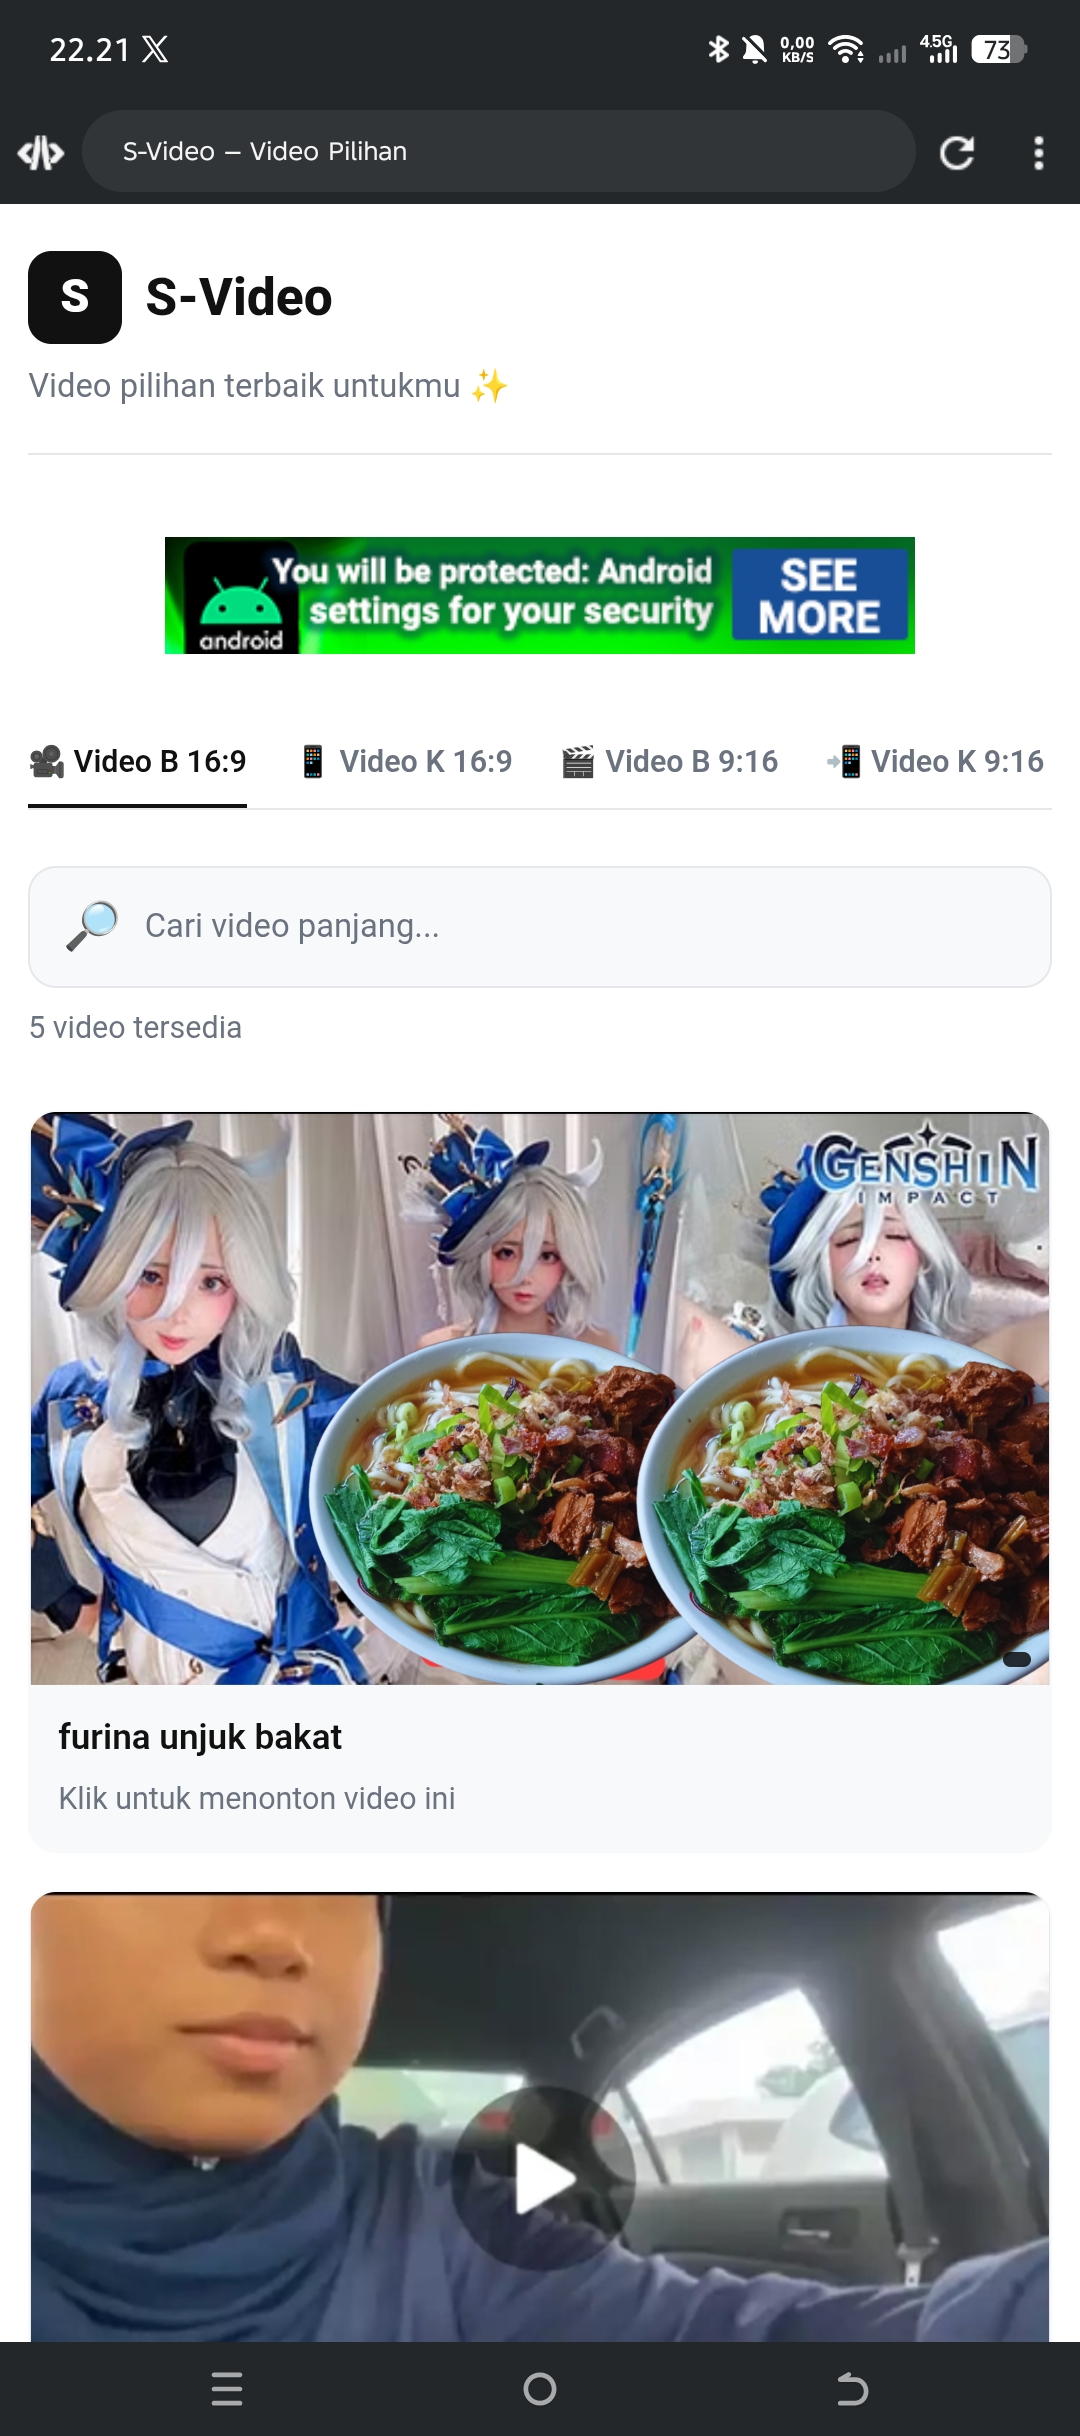
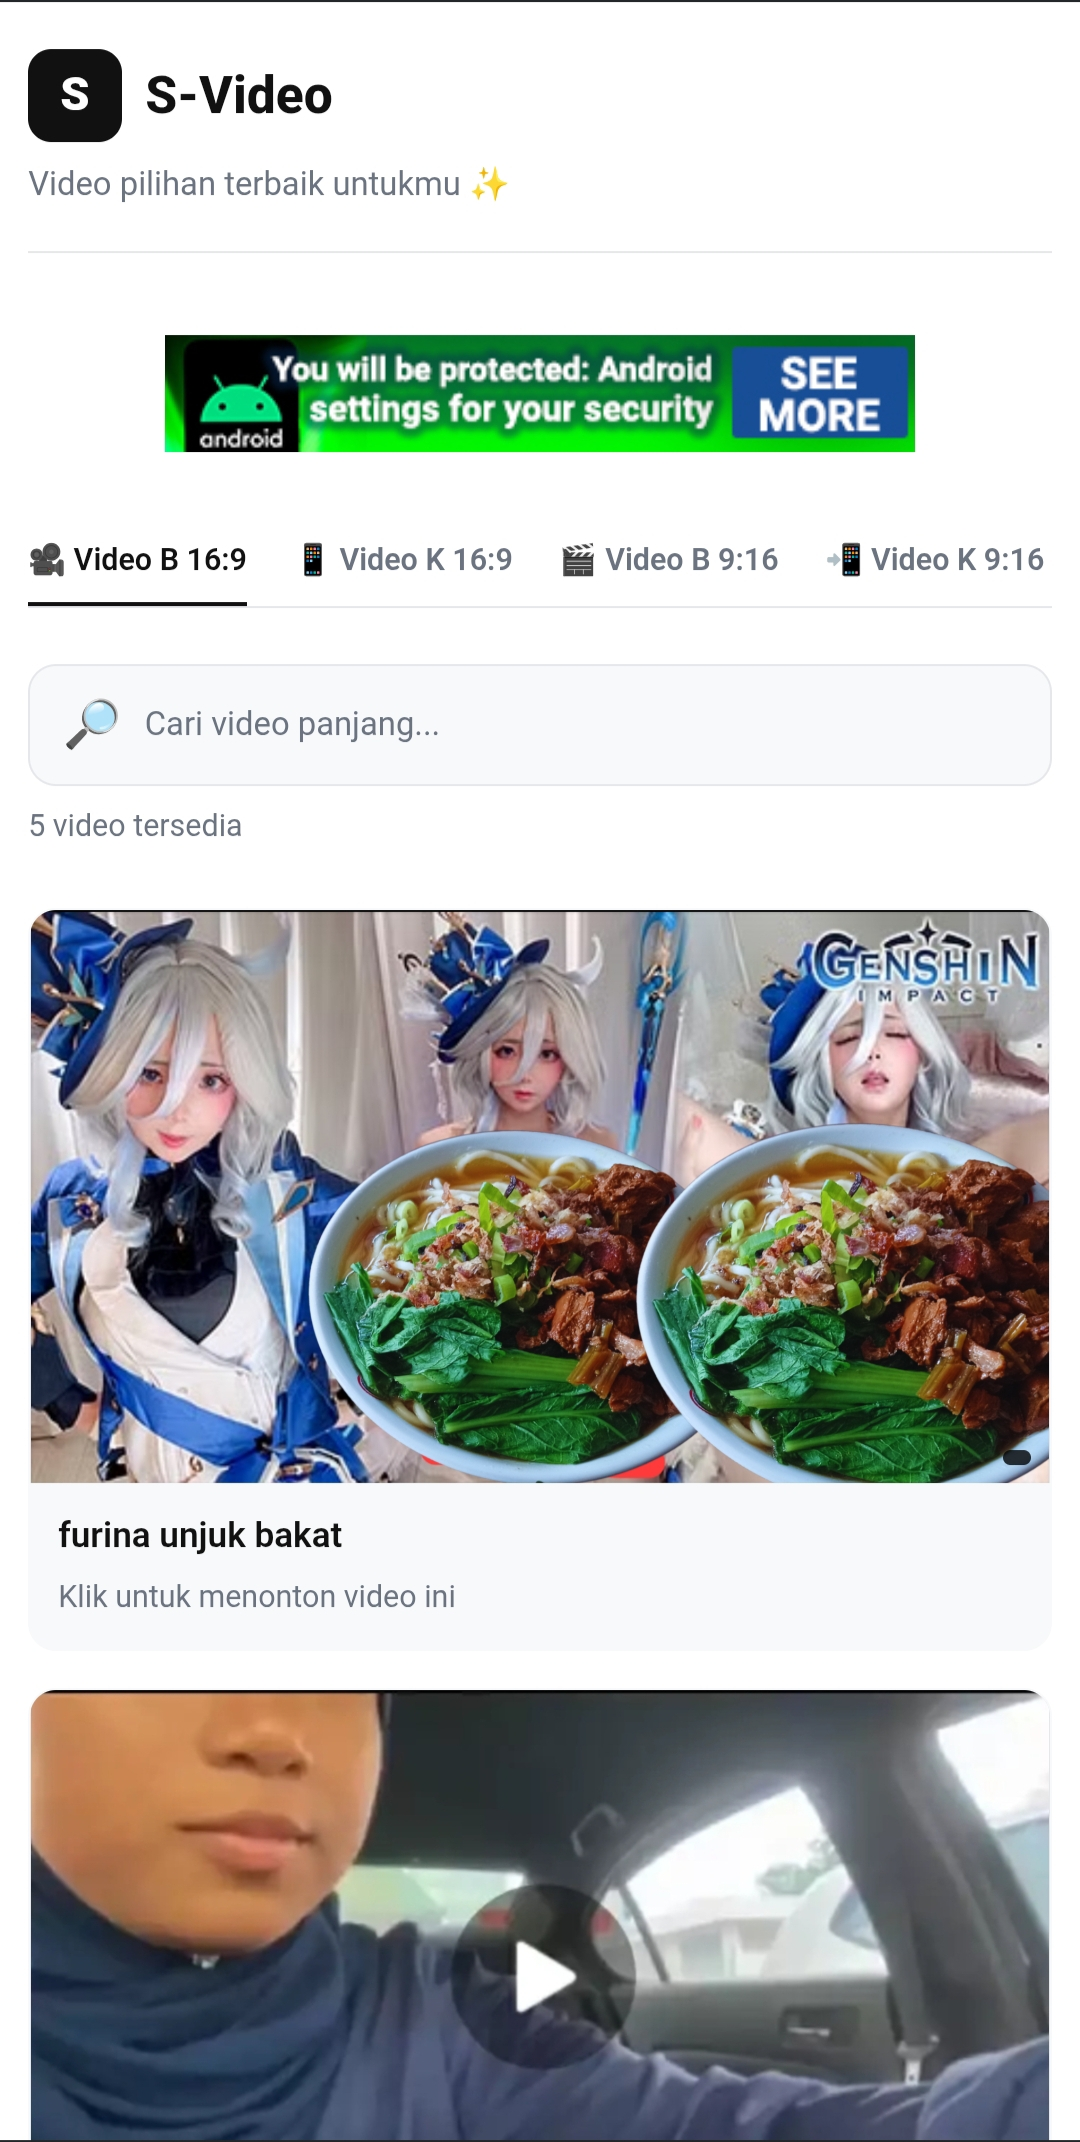
Add files via upload

diff --git a/Pilihvid.html b/Pilihvid.html
@@ -453,7 +453,8 @@ header p {
       <a href="https://anonmp4.art/v/s8mefCEn6Zi4qce" target="_blank" class="video-card">
         <div class="thumbnail">
           <img src="furinacostplay(b).jpg" alt="Thumbnail mobil">
-          <span class="duration"></span>
+          <div class="play-button">▶</div>
+          <span class="duration">04:40</span>
         </div>
         <div class="info">
           <div class="judul">furina unjuk bakat</div>
